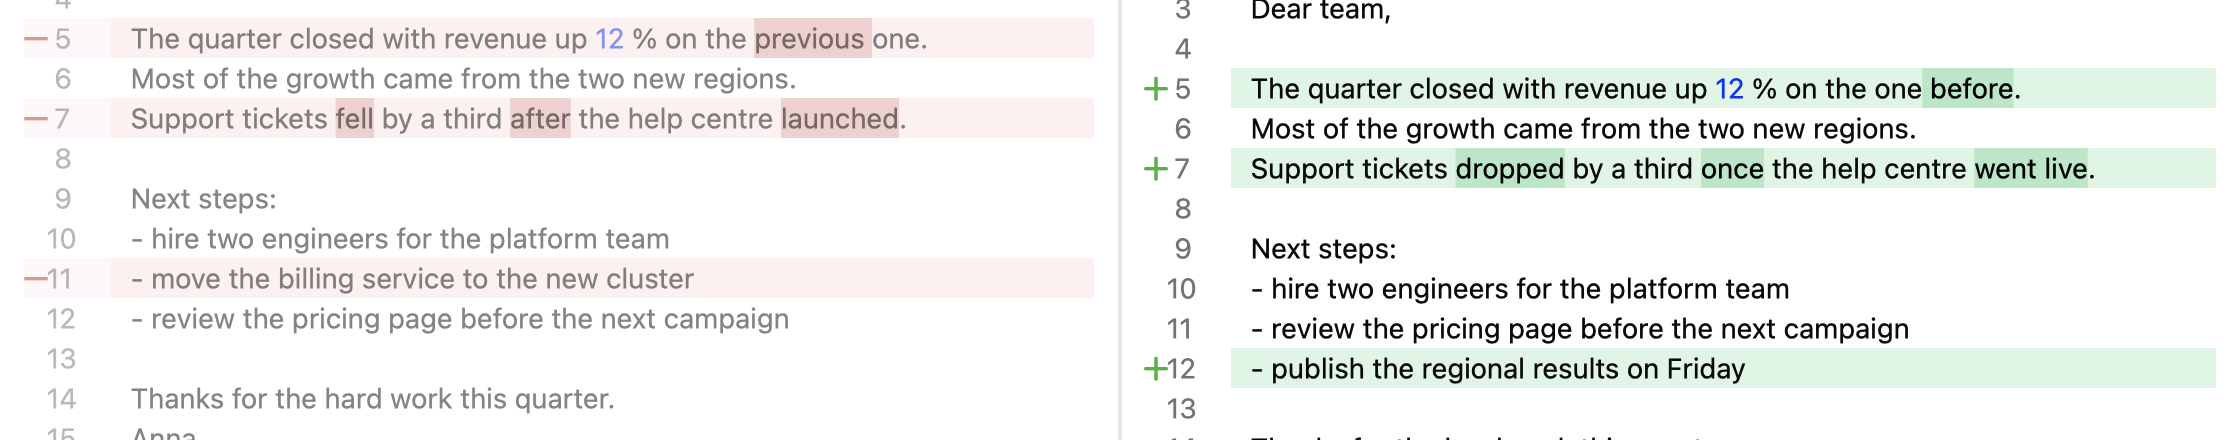
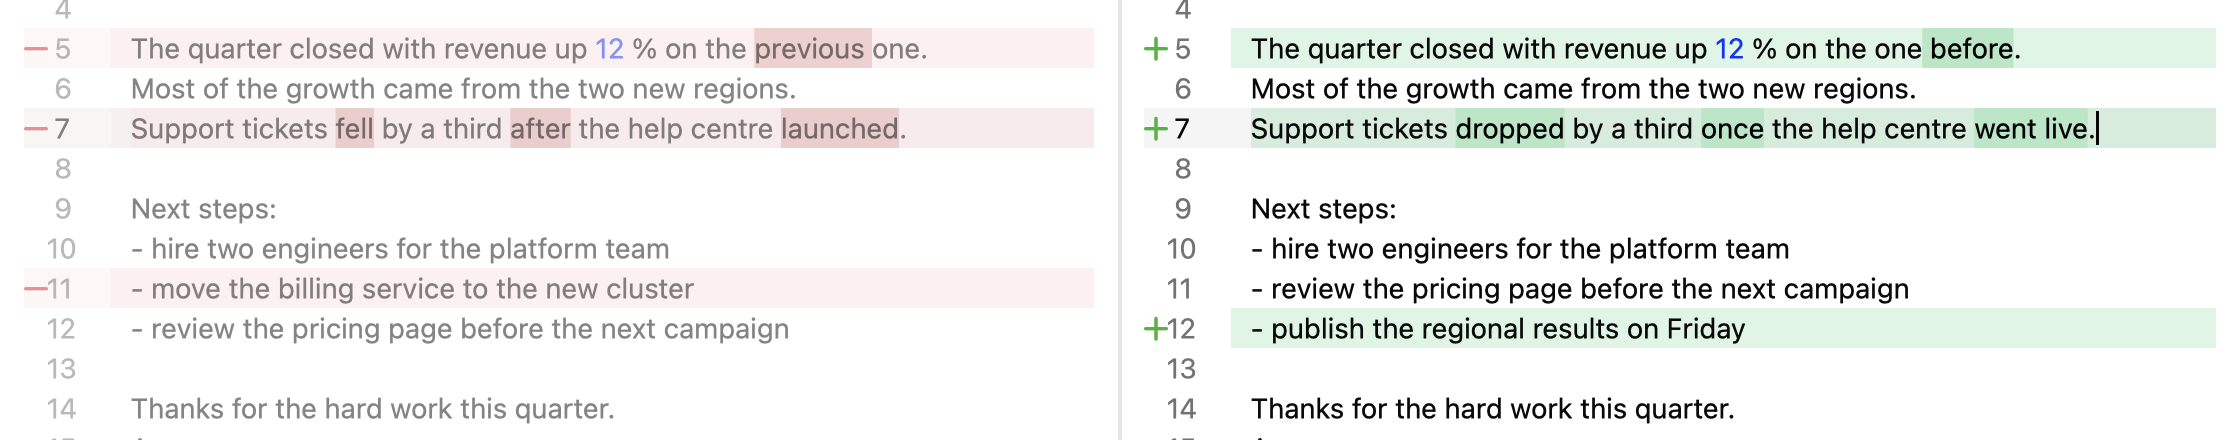
docs: annotated lazy-shot capture of the line decorations
The Compare window re-captured with lazy-shot after the original gained
its blank strip, plus a copy with five numbered markers burnt in (lazy-shot
keeps its own markers as an overlay, not in the PNG) and a legend saying
which mark the patch paints and which it does not.

diff --git a/docs/sdd/line-decorations.md b/docs/sdd/line-decorations.md
@@ -13,35 +13,43 @@ screenshots under [`line-decorations/`](line-decorations/).
 
 ## 1. What we want — the Compare window
 
-![The Compare window: the original on the left, the edited result on the right; changed lines carry a red minus or green plus in the gutter and a full-width tint, changed words a stronger tint](line-decorations/compare-window.png)
+![The Compare window with five numbered markers: 1 the red minus in the original's gutter, 2 the green plus in the result's gutter, 3 a full-row tint, 4 a changed word's stronger tint, 5 the blank strip over the original](line-decorations/compare-window-annotated.png)
 
 *The Compare window on `quarterly-update.md` after the result was
-edited: line 5 and 7 reworded, line 11 removed, a new line 12 added.
-Light theme, macOS, 1120 × 753 pt, captured at 2× from a debug build of
-`feat/e0-e6-shell`.*
+edited: lines 5 and 7 reworded, line 11 removed, a new line 12 added.
+Light theme, macOS, 1120 × 753 pt, captured at 2× with lazy-shot
+(screenshot `wipemark-compare-line-decorations`, id 1065; the markers
+are also kept as lazy-shot's own overlay,
+`wipemark-compare-line-decorations-annotated`, id 1066) from a debug
+build of `feat/e0-e6-shell` at `1d041be`.*
+
+| # | mark | what it says | painted by |
+|---|---|---|---|
+| 1 | **gutter glyph `−`** on the original, at the left edge of the line-number column | "this line is gone or changed", readable without colour | **`LineDecorationProvider`** (this patch) |
+| 2 | **gutter glyph `+`** on the result | "this line is new or changed" | **`LineDecorationProvider`** (this patch) |
+| 3 | **full-row tint**, edge to edge, red on the left and green on the right | which lines to read across — including a removed or added line, which has no words to mark | **`LineDecorationProvider`** (this patch) |
+| 4 | **stronger tint behind a changed word** — `previous` / `before`, `fell` / `dropped`, … | what inside a changed line differs | `DocumentColorProvider` — upstream's LSP document-colour road, not this patch (`docs/architecture/compare.md`) |
+| 5 | **blank strip** over the original, the height of the result's toolbar | line 1 on the left is level with line 1 on the right | our own layout (`result::TOOLBAR_HEIGHT`); its test reads both lines' tops through the patch's `visible_line_bounds` |
+
+The same window without markers, and a close-up of the marked rows:
+
+![The Compare window, unannotated](line-decorations/compare-window.png)
 
 ![Close-up of the marked lines](line-decorations/compare-marks-close-up.png)
-
-Three marks are visible, and they come from two mechanisms:
-
-| mark | what it says | painted by |
-|---|---|---|
-| **gutter glyph** — red `−` on the original, green `+` on the result, at the left edge of the line-number column | "this line differs", readable without colour | **`LineDecorationProvider`** (this patch) |
-| **full-width line tint** — the whole row, edge to edge, red on the left and green on the right | which lines to read across | **`LineDecorationProvider`** (this patch) |
-| **stronger tint behind the changed words** — `previous` / `before`, `fell` / `dropped`, … | what inside a changed line differs | `DocumentColorProvider` — upstream's LSP document-colour road, not this patch (`docs/architecture/compare.md`) |
 
 The tint sits *under* the text, the active-line outline stays on top of
 it, indent guides stay visible over it. Without the patch the first two
 rows disappear: only the word marks would remain, and a removed or added
 line — which has no words to mark against anything — would show nothing
 at all. For comparison, the same window before any edit, where nothing
-is marked:
+is marked (captured an hour earlier, before the blank strip of marker 5
+existed — note the original starting a toolbar higher):
 
 ![The Compare window before the result was edited — nothing marked](line-decorations/compare-window-unchanged.png)
 
-The two sides also line up: line 1 of the original is level with line 1
-of the result because the original carries a blank strip the height of
-the result's toolbar (`result::TOOLBAR_HEIGHT`; gate
+The two sides line up (marker 5): line 1 of the original is level with
+line 1 of the result because the original carries a blank strip the
+height of the result's toolbar (`result::TOOLBAR_HEIGHT`; gate
 `compare::tests::the_first_lines_sit_level`, which reads both lines'
 on-screen tops through the patch's `visible_line_bounds`).
 
